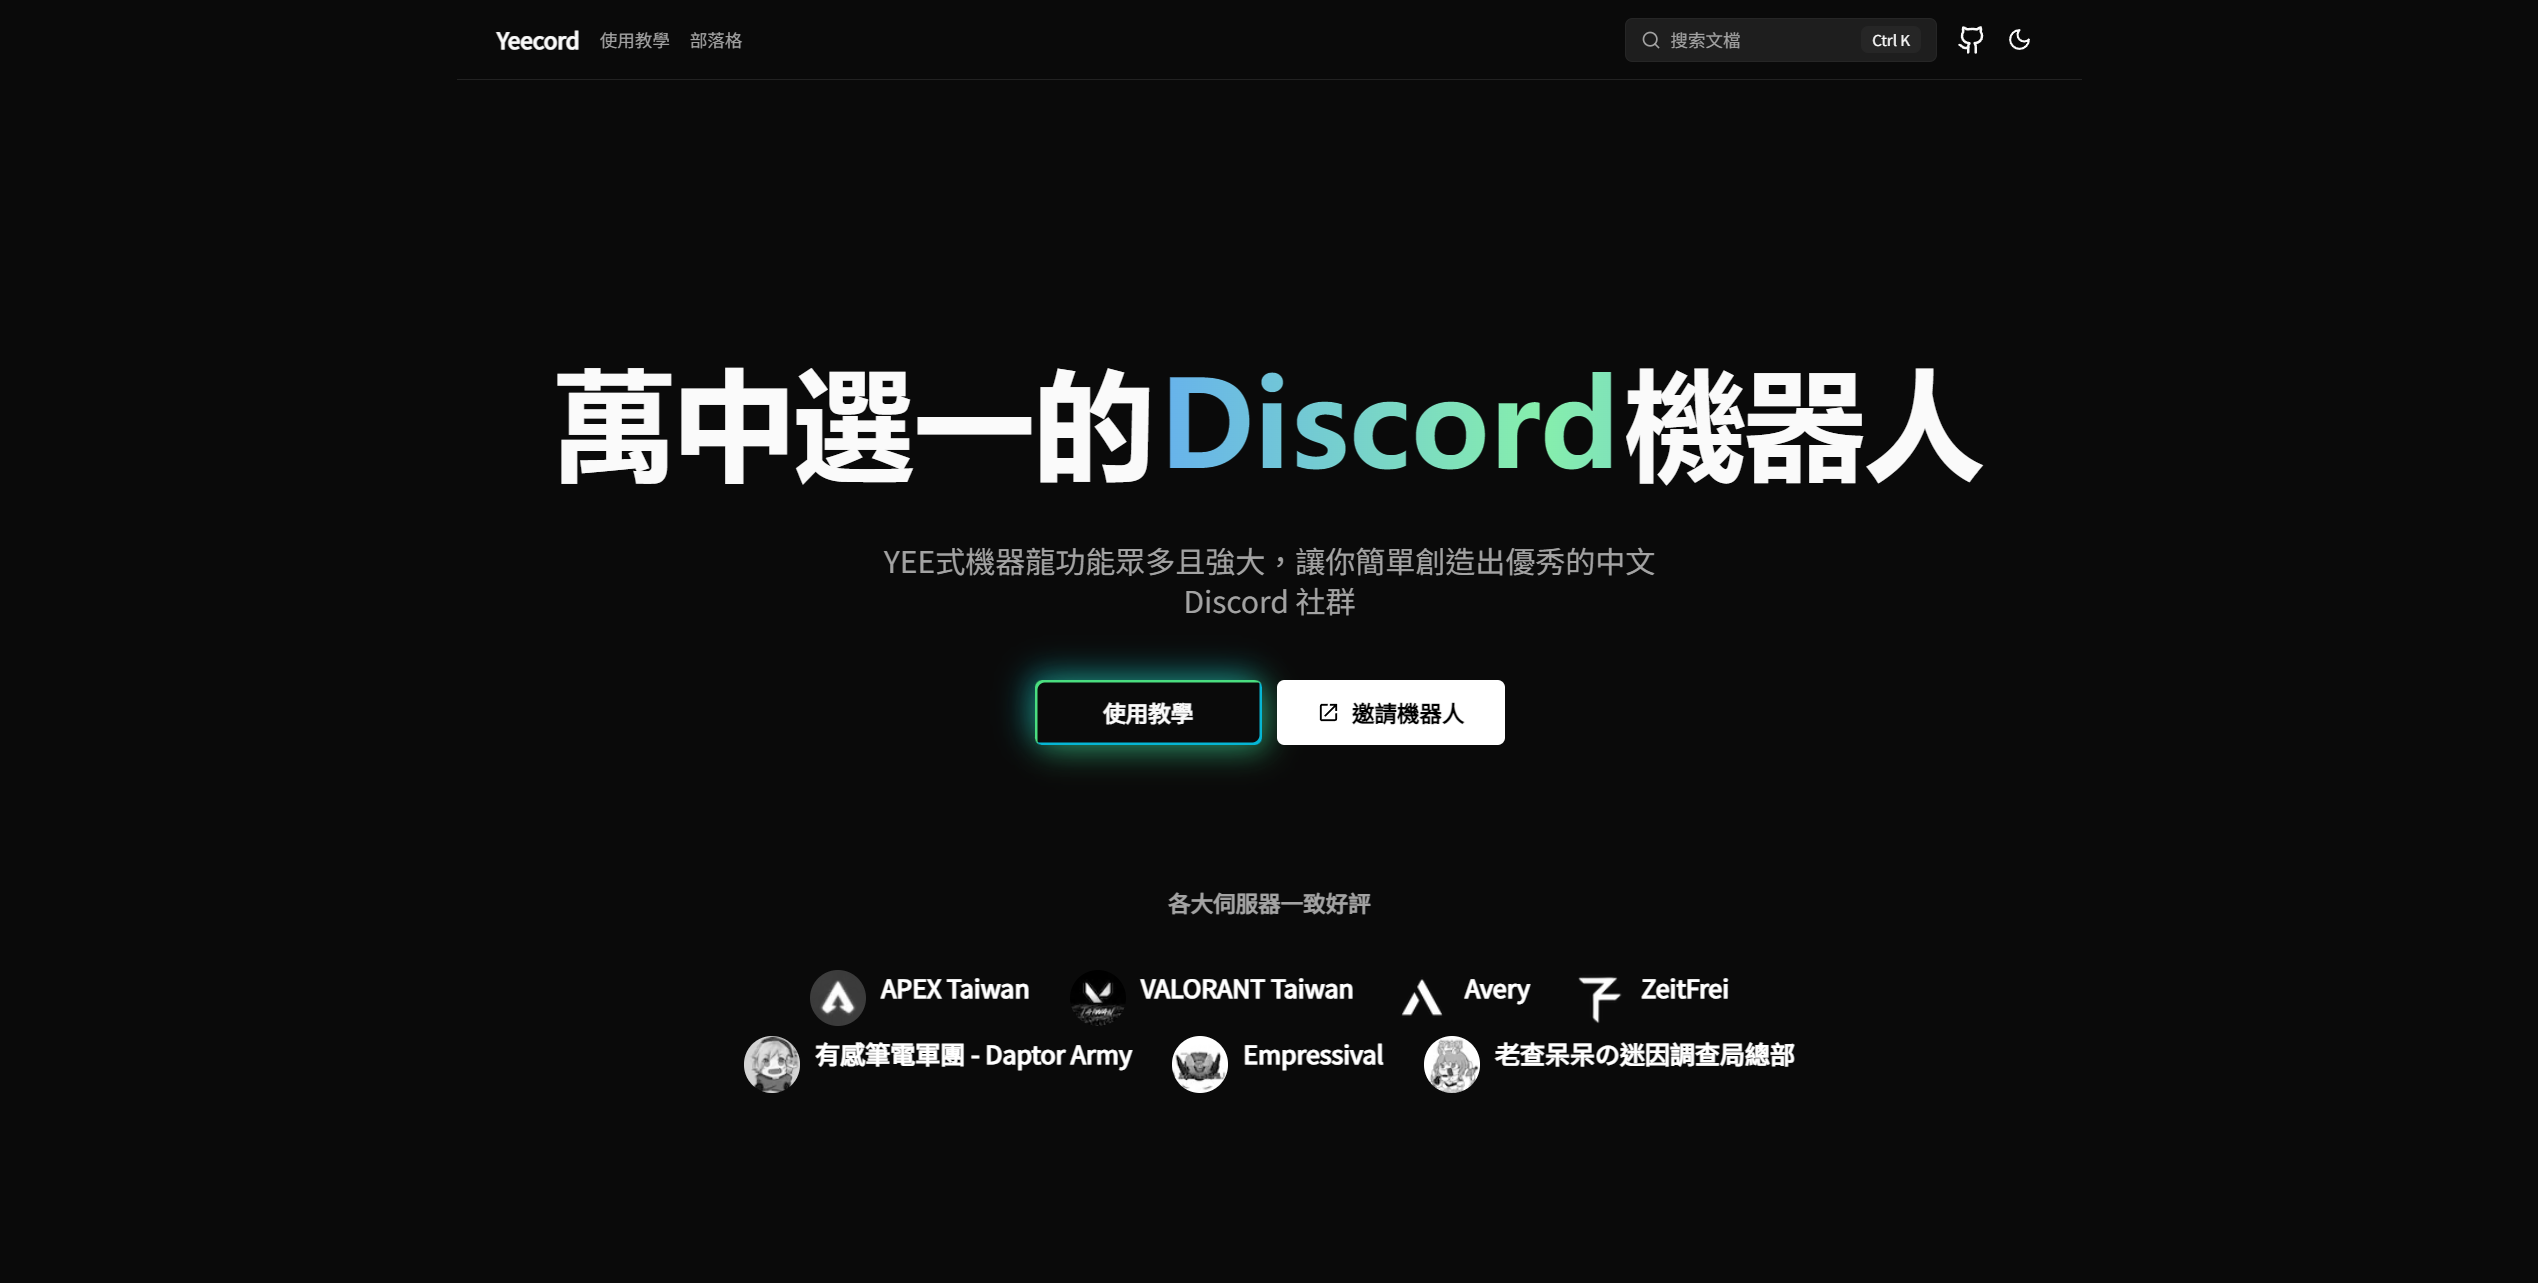
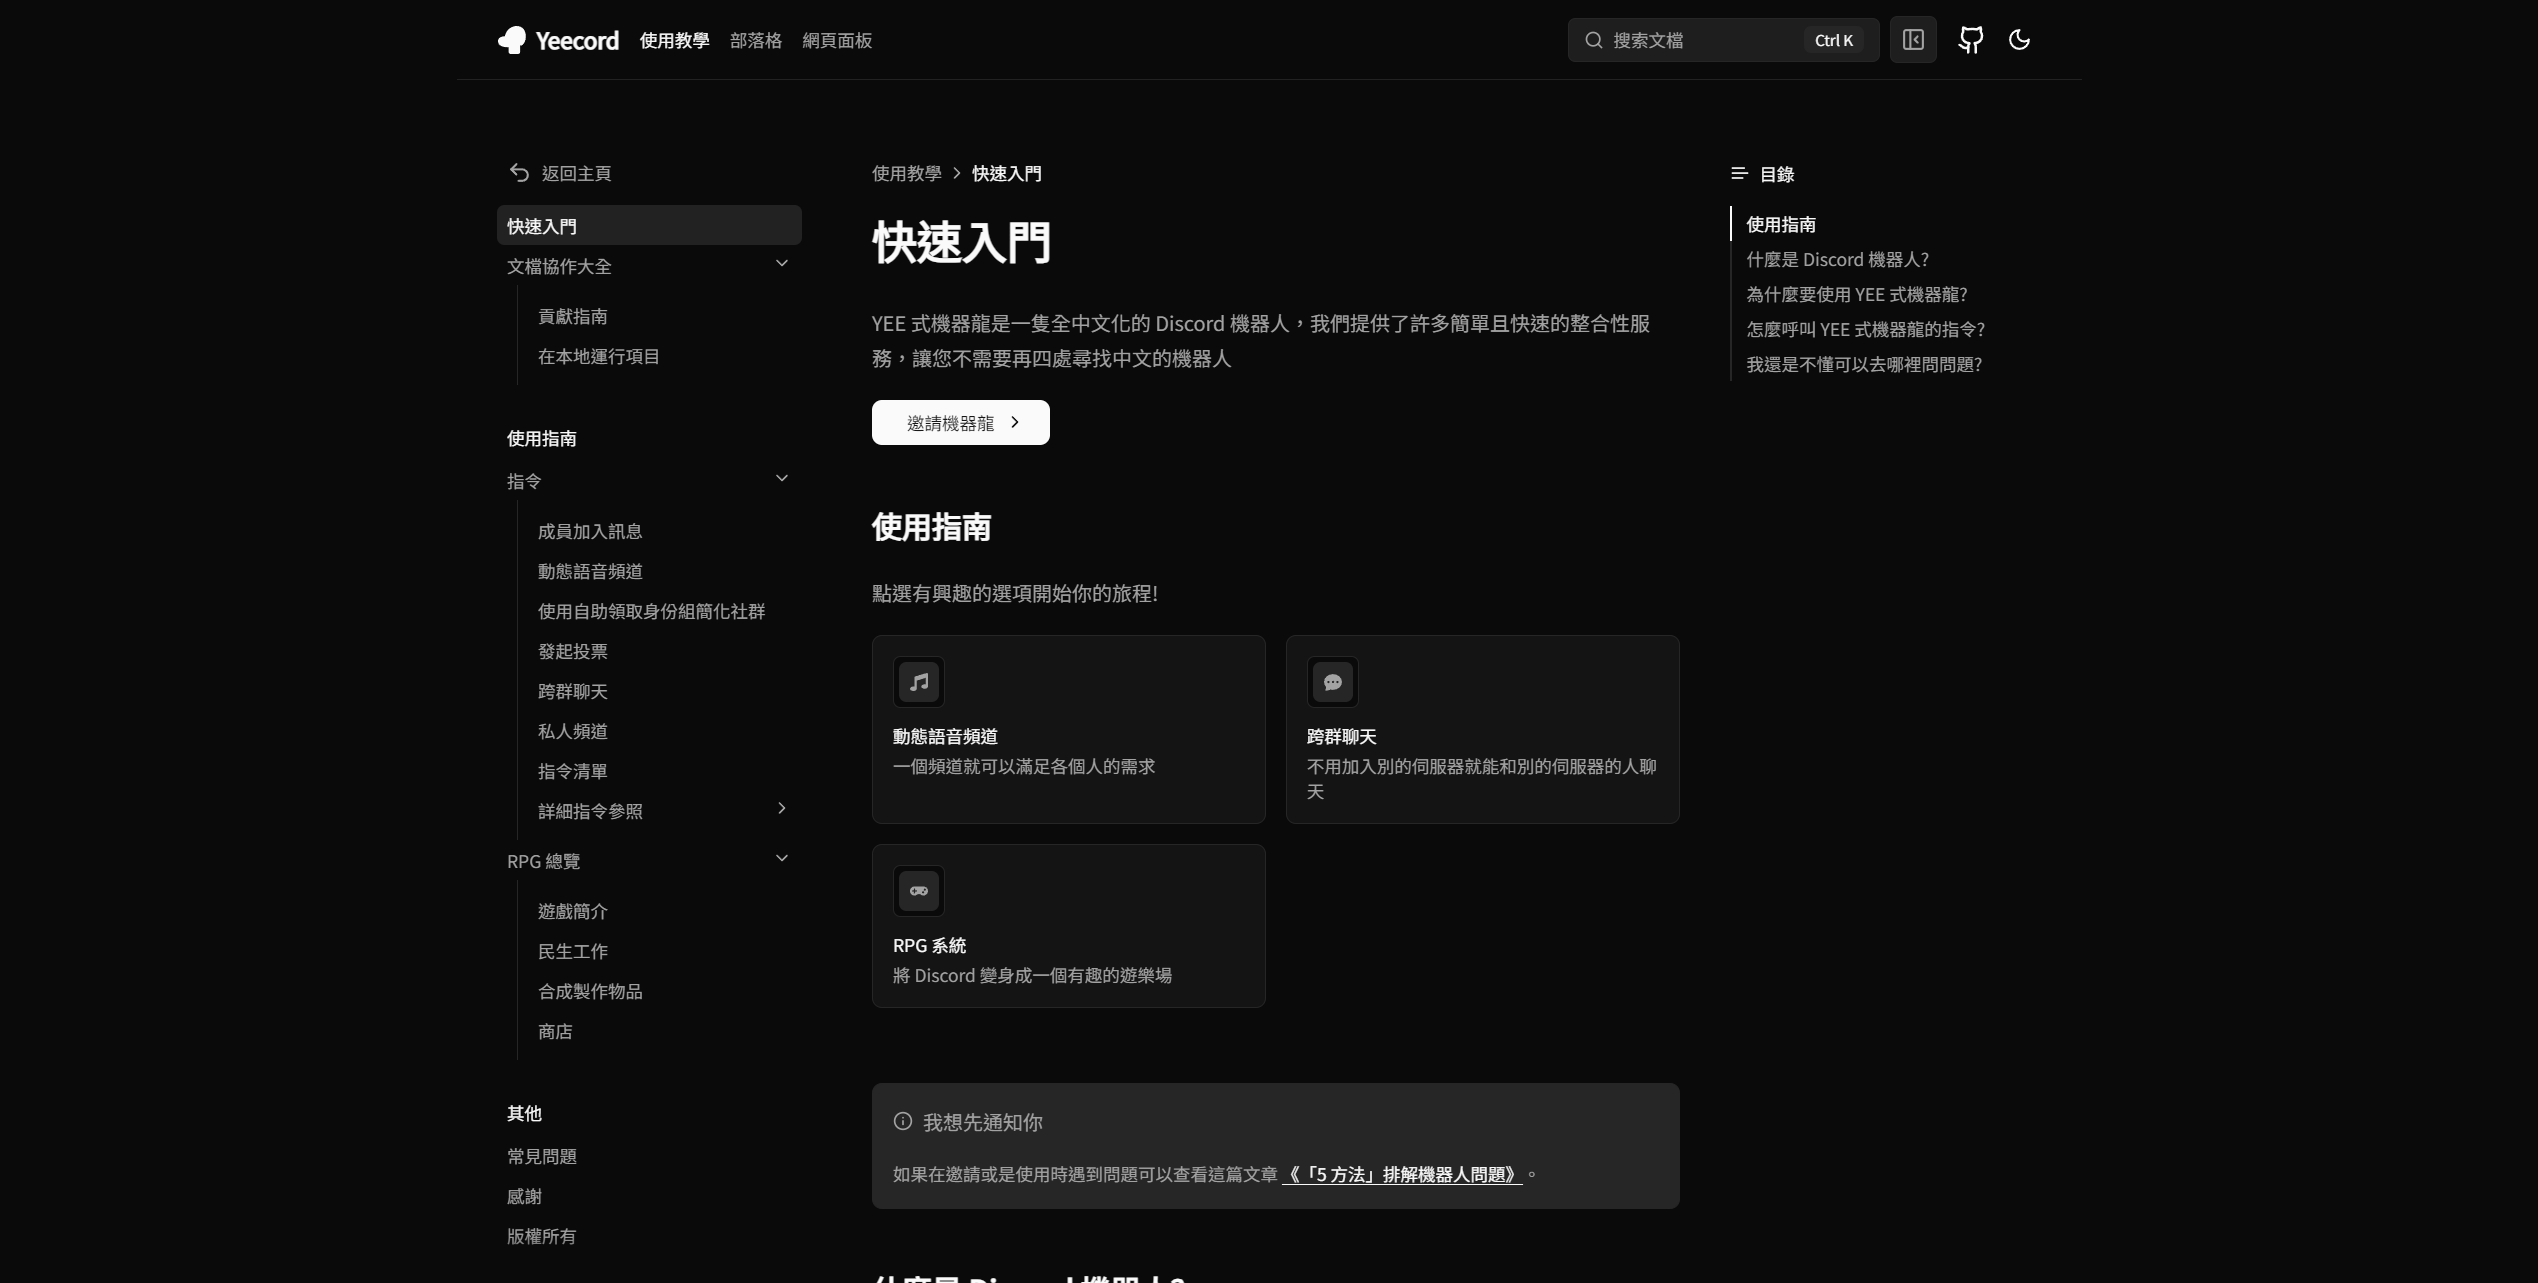
UI: Support i18n search dialog placeholder

diff --git a/packages/next-docs-ui/src/contexts/i18n.tsx b/packages/next-docs-ui/src/contexts/i18n.tsx
@@ -10,11 +10,10 @@ export type Translations = {
   footerNext: string
 }
 
-export const I18nContext = createContext<
-  | {
-      locale: string
-      onChange: (v: string) => void
-      text?: Partial<Translations>
-    }
-  | undefined
->(undefined)
+export const I18nContext = createContext<{
+  locale?: string
+  onChange: (v: string) => void
+  text?: Partial<Translations>
+}>({
+  onChange: () => {}
+})

diff --git a/packages/next-docs-ui/src/components/dialog/search.tsx b/packages/next-docs-ui/src/components/dialog/search.tsx
@@ -36,7 +36,7 @@ export default function SearchDialog({
   ...props
 }: SearchDialogProps) {
   const router = useRouter()
-  const locale = useContext(I18nContext)?.locale
+  const { locale, text } = useContext(I18nContext)
   const { search, setSearch, query } = useDocsSearch(locale, tag)
 
   const onOpen = useCallback(
@@ -51,7 +51,7 @@ export default function SearchDialog({
     <CommandDialog {...props}>
       {props.children}
       <CommandInput
-        placeholder="Search"
+        placeholder={text?.search ?? 'Search'}
         value={search}
         onValueChange={setSearch}
       />

diff --git a/packages/next-docs-ui/src/components/mdx/footer.tsx b/packages/next-docs-ui/src/components/mdx/footer.tsx
@@ -13,7 +13,7 @@ const item =
 
 export function Footer({ next, previous }: FooterProps) {
   const { footerNext = 'Next', footerPrevious = 'Previous' } =
-    useContext(I18nContext)?.text ?? {}
+    useContext(I18nContext).text ?? {}
 
   return (
     <div className="nd-flex nd-flex-row nd-mt-12 nd-gap-4 nd-flex-wrap nd-border-t nd-py-12">

diff --git a/packages/next-docs-ui/src/components/search-toggle.tsx b/packages/next-docs-ui/src/components/search-toggle.tsx
@@ -7,7 +7,7 @@ import { useContext } from 'react'
 
 export function SearchToggle(props: ComponentPropsWithoutRef<'button'>) {
   const { setOpenSearch } = useContext(SearchContext)
-  const { search = 'Search' } = useContext(I18nContext)?.text ?? {}
+  const { search = 'Search' } = useContext(I18nContext).text ?? {}
 
   return (
     <button

diff --git a/packages/next-docs-ui/src/components/theme-toggle.tsx b/packages/next-docs-ui/src/components/theme-toggle.tsx
@@ -16,7 +16,7 @@ export function ThemeToggle(props: ButtonHTMLAttributes<HTMLButtonElement>) {
     light = 'Light',
     dark = 'Dark',
     system = 'System'
-  } = useContext(I18nContext)?.text ?? {}
+  } = useContext(I18nContext).text ?? {}
 
   return (
     <DropdownMenu>

diff --git a/packages/next-docs-ui/src/components/toc.tsx b/packages/next-docs-ui/src/components/toc.tsx
@@ -6,7 +6,7 @@ import * as Primitive from 'next-docs-zeta/toc'
 import { useContext } from 'react'
 
 export function TOC({ items }: { items: TOCItemType[] }) {
-  const { toc = 'On this page' } = useContext(I18nContext)?.text ?? {}
+  const { toc = 'On this page' } = useContext(I18nContext).text ?? {}
 
   return (
     <Primitive.TOCProvider toc={items} className="nd-overflow-hidden nd-flex-1">

diff --git a/.changeset/shy-mugs-beg.md b/.changeset/shy-mugs-beg.md
@@ -1,0 +1,5 @@
+---
+'next-docs-ui': patch
+---
+
+Support i18n search dialog placeholder